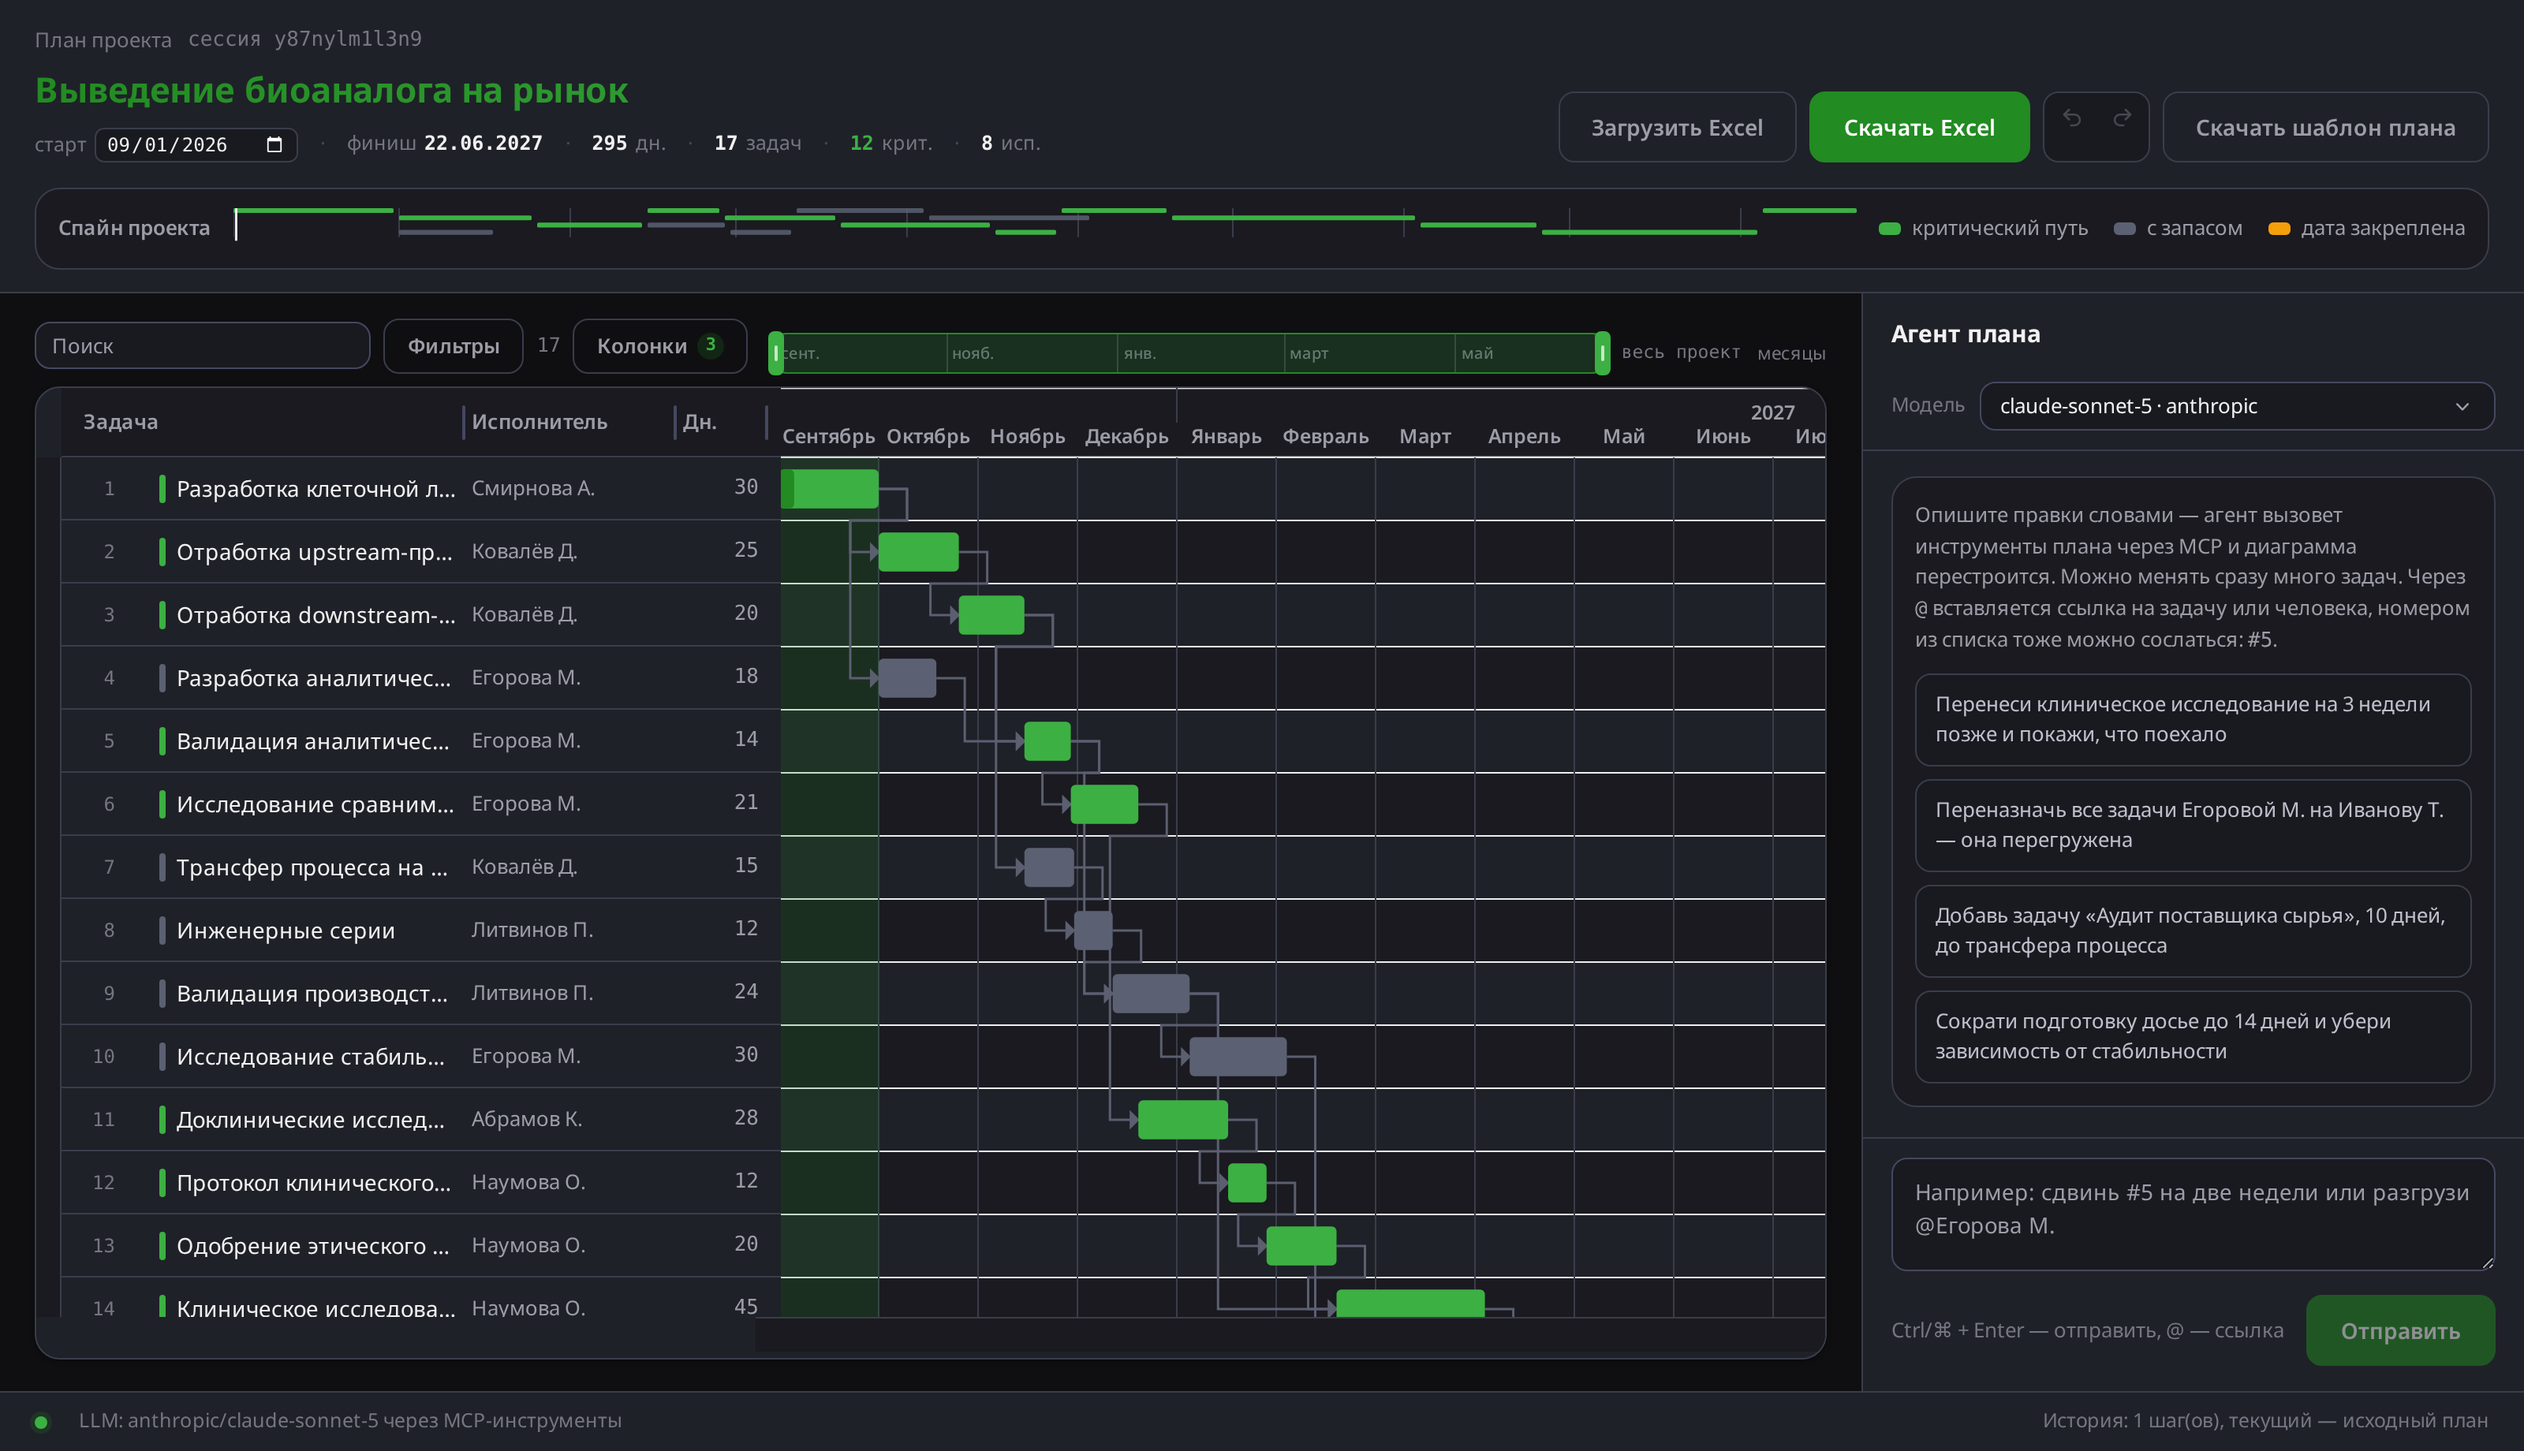
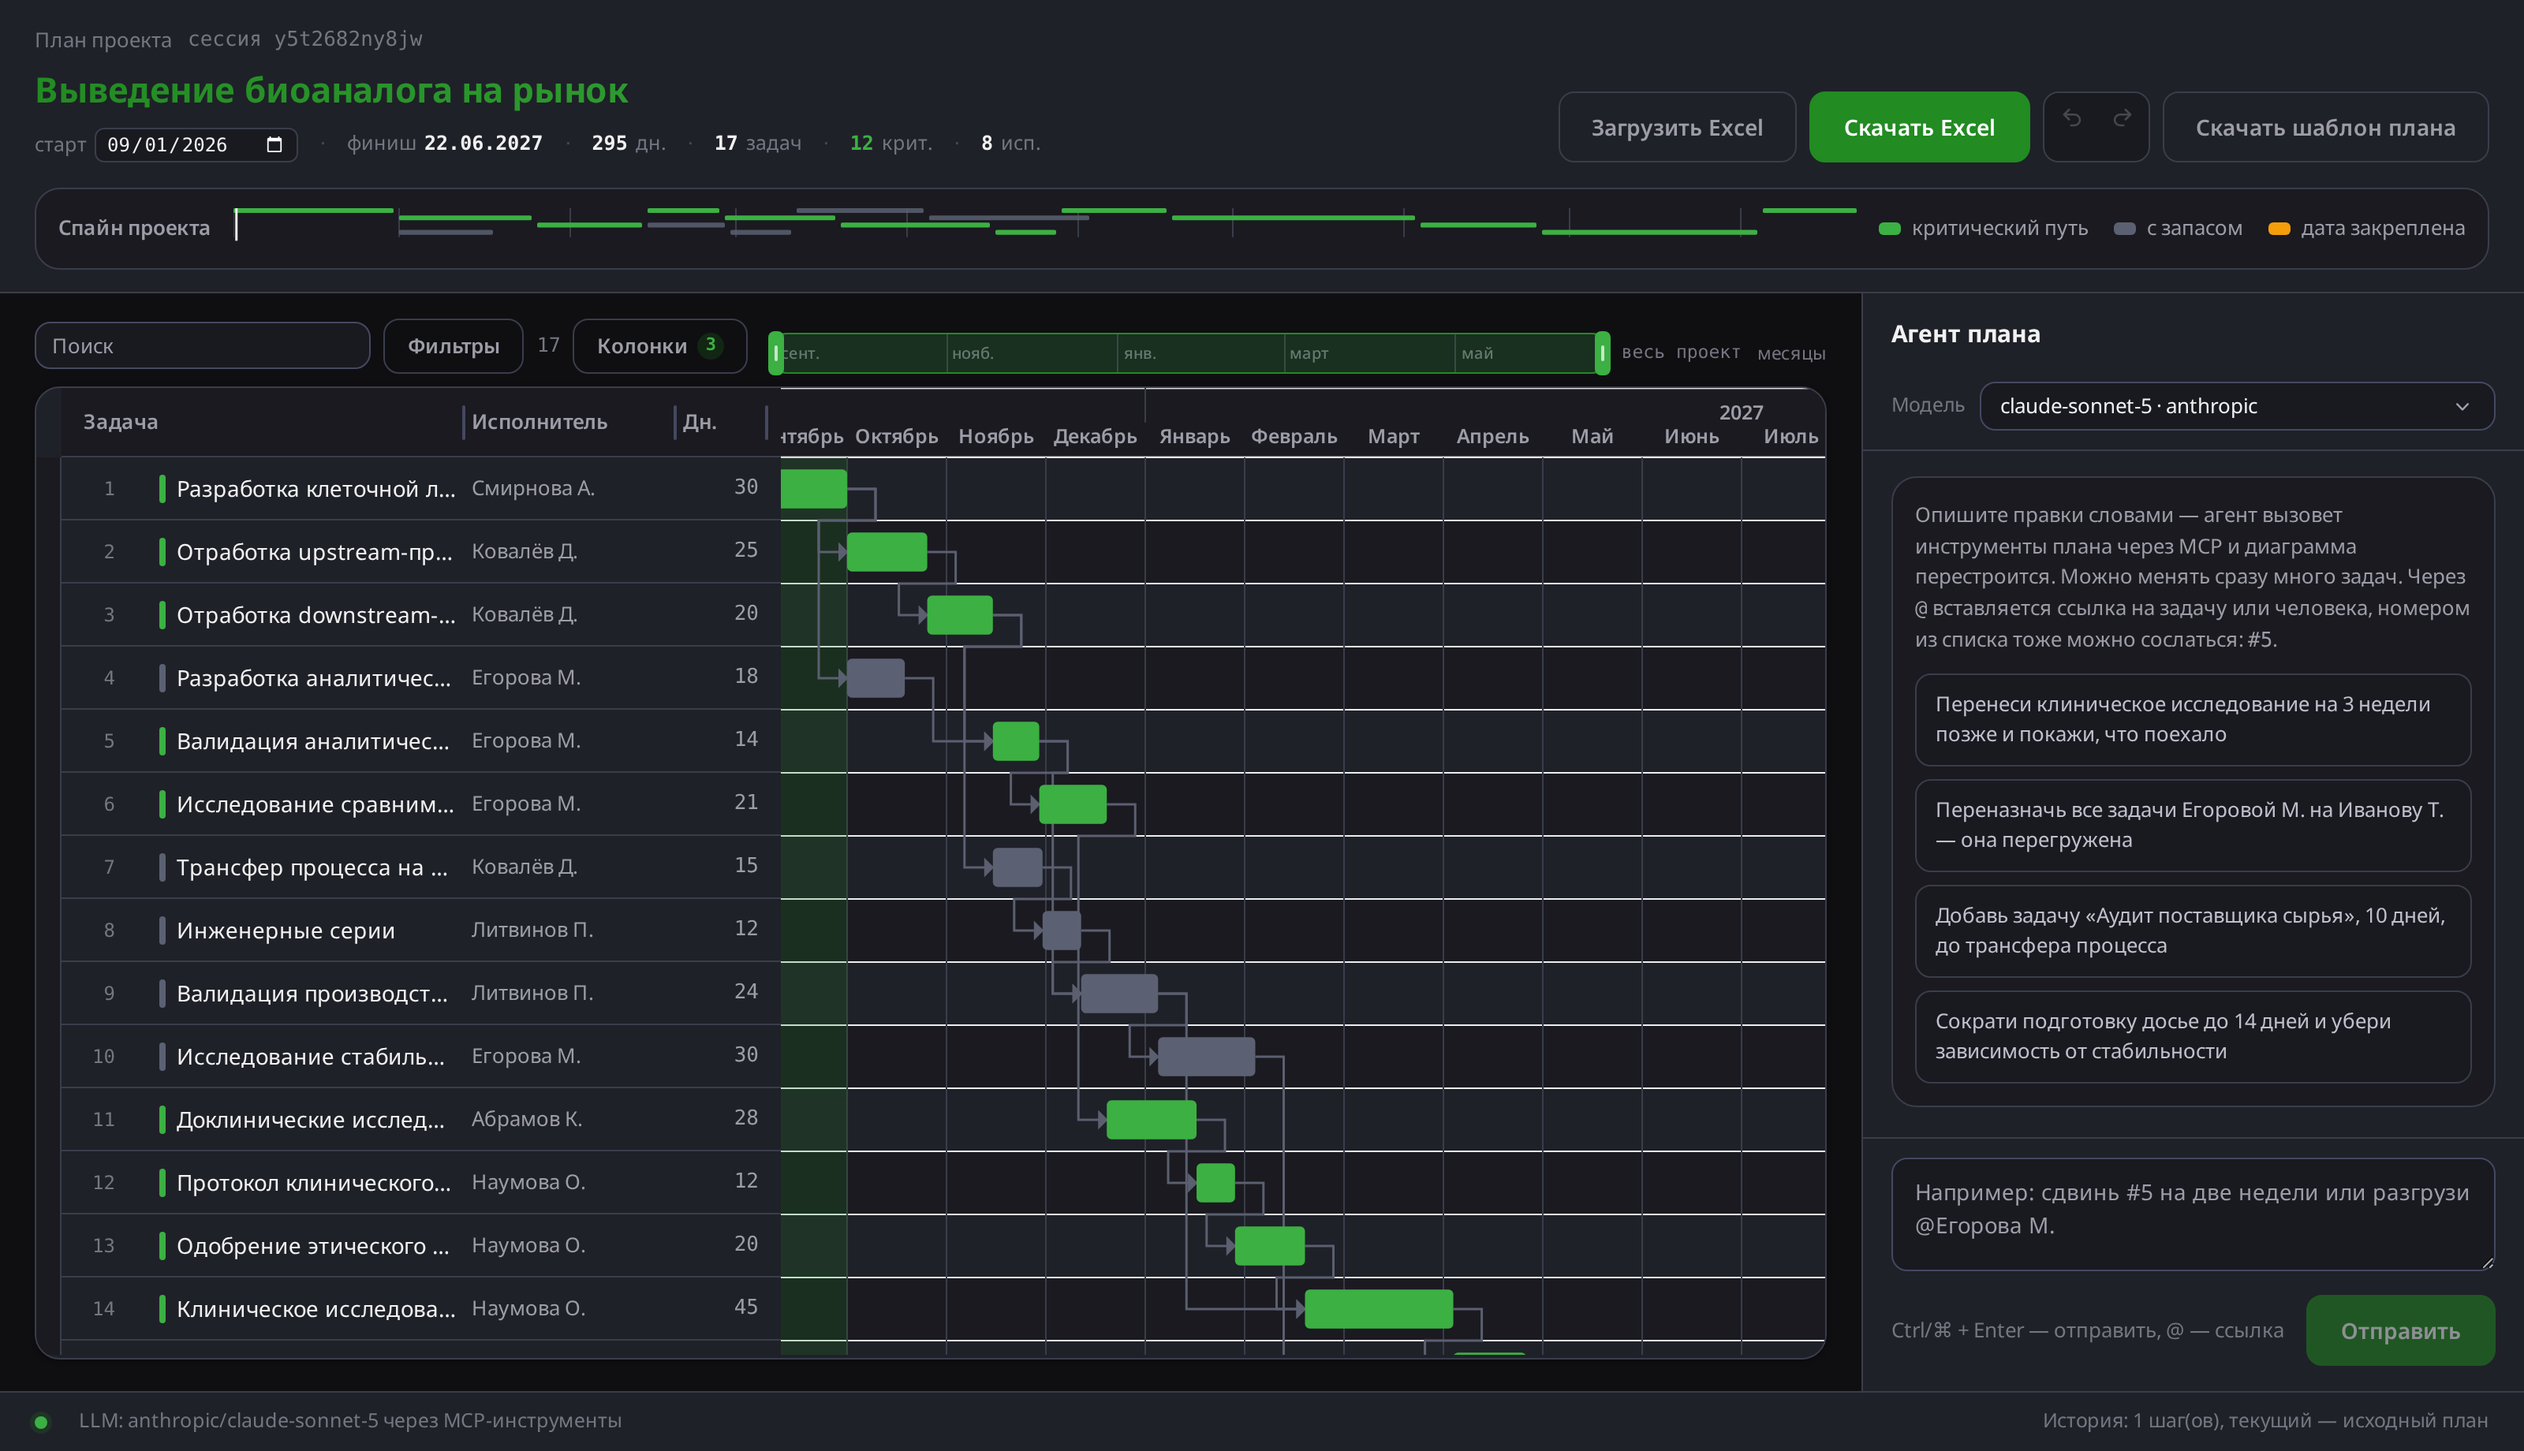
Убрать горизонтальную полосу прокрутки диаграммы и добавить содержание в README
После появления шкалы над таймлайном полоса внизу делала то же самое и отнимала
высоту. Скрываем её визуально (height: 0, скроллбар выключен), но сам элемент
библиотеки оставляем в потоке с overflow-x: auto — из него берутся ширина
видимой области и геометрия таймлайна, а по нему же мы этот элемент находим.
Освободившиеся 26px отданы диаграмме.

Проверено: высота полосы 0, видимая ширина по-прежнему 678px, при «всём проекте»
видны все 17 полосок, окно в конце наводится точно (последние три задачи).

В начало README добавлено содержание со ссылками на разделы; строка про прокрутку
таймлайна исправлена — полосы больше нет.

diff --git a/frontend/src/styles.css b/frontend/src/styles.css
@@ -706,10 +706,20 @@ body.is-brushing * {
   background-clip: padding-box;
 }
 
+/* Горизонтальную полосу прокрутки убираем: по времени теперь ходят шкалой над
+   диаграммой, и вторая ручка внизу только отнимала место. Сам элемент библиотеки
+   оставляем в потоке — из него берутся ширина видимой области и геометрия
+   таймлайна, а `overflow-x: auto` нужен, чтобы мы его находили. */
 .chart__frame ._2k9Ys {
-  height: 22px;
-  background: var(--bg-surface-alt);
-  border-top: 1px solid var(--border) !important;
+  height: 0;
+  border: 0 !important;
+  scrollbar-width: none;
+}
+
+.chart__frame ._2k9Ys::-webkit-scrollbar {
+  display: none;
+  width: 0;
+  height: 0;
 }
 
 /* Вертикальный ползунок библиотеки — на левый край карточки: `order` выносит его

diff --git a/frontend/src/components/GanttBoard.tsx b/frontend/src/components/GanttBoard.tsx
@@ -25,10 +25,10 @@ const COLORS = {
   blocked: { bar: "#e23738", progress: "#b81f20" },
 };
 
-// Высота календаря библиотеки и место под горизонтальный ползунок: без запаса
-// ползунок оказывается за границей карточки и мышкой до него не добраться.
+// Высота календаря библиотеки. Место под горизонтальную полосу больше не
+// резервируем: полосы нет, по времени ходят шкалой над диаграммой.
 const HEADER_HEIGHT = 44;
-const SCROLLBAR_SPACE = 26;
+const SCROLLBAR_SPACE = 2;
 
 interface Props {
   schedule: Schedule;
